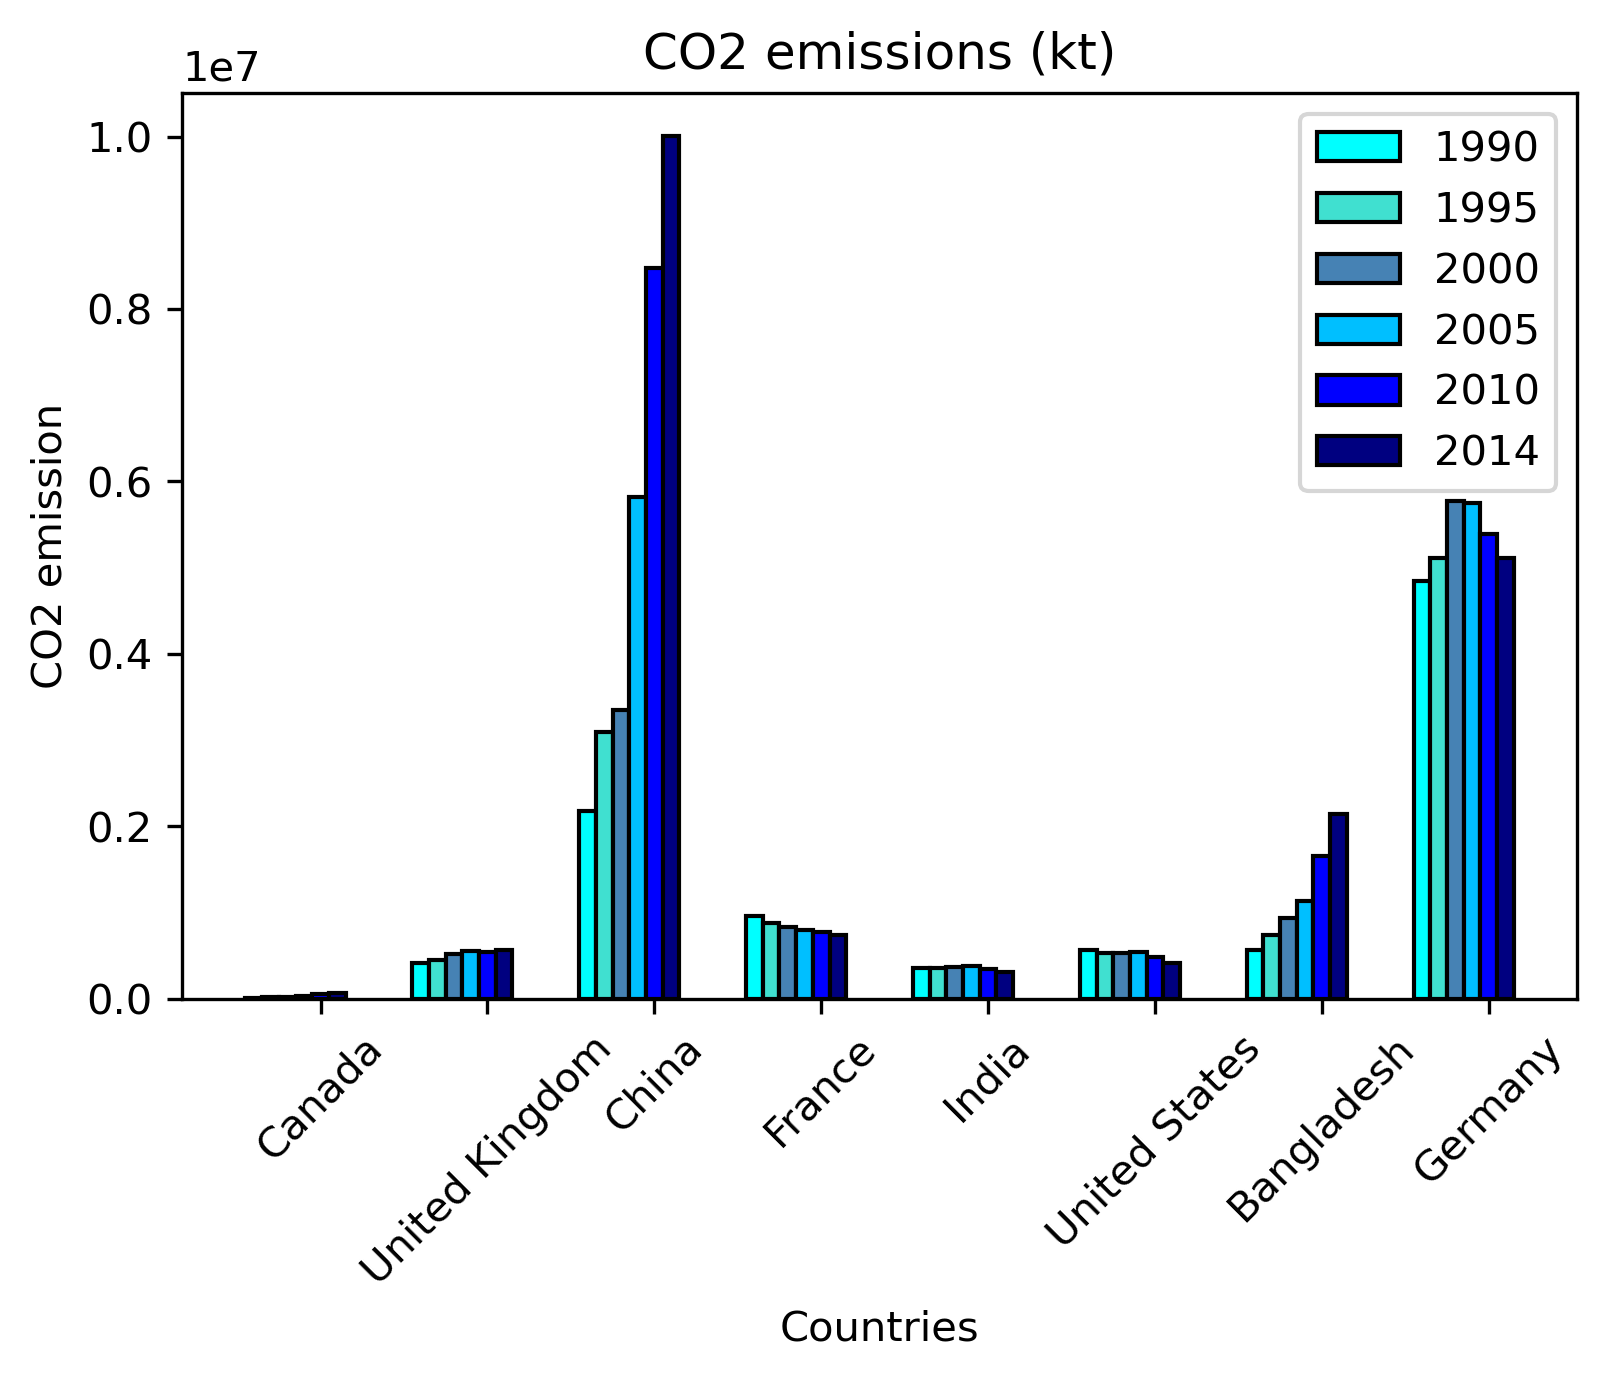
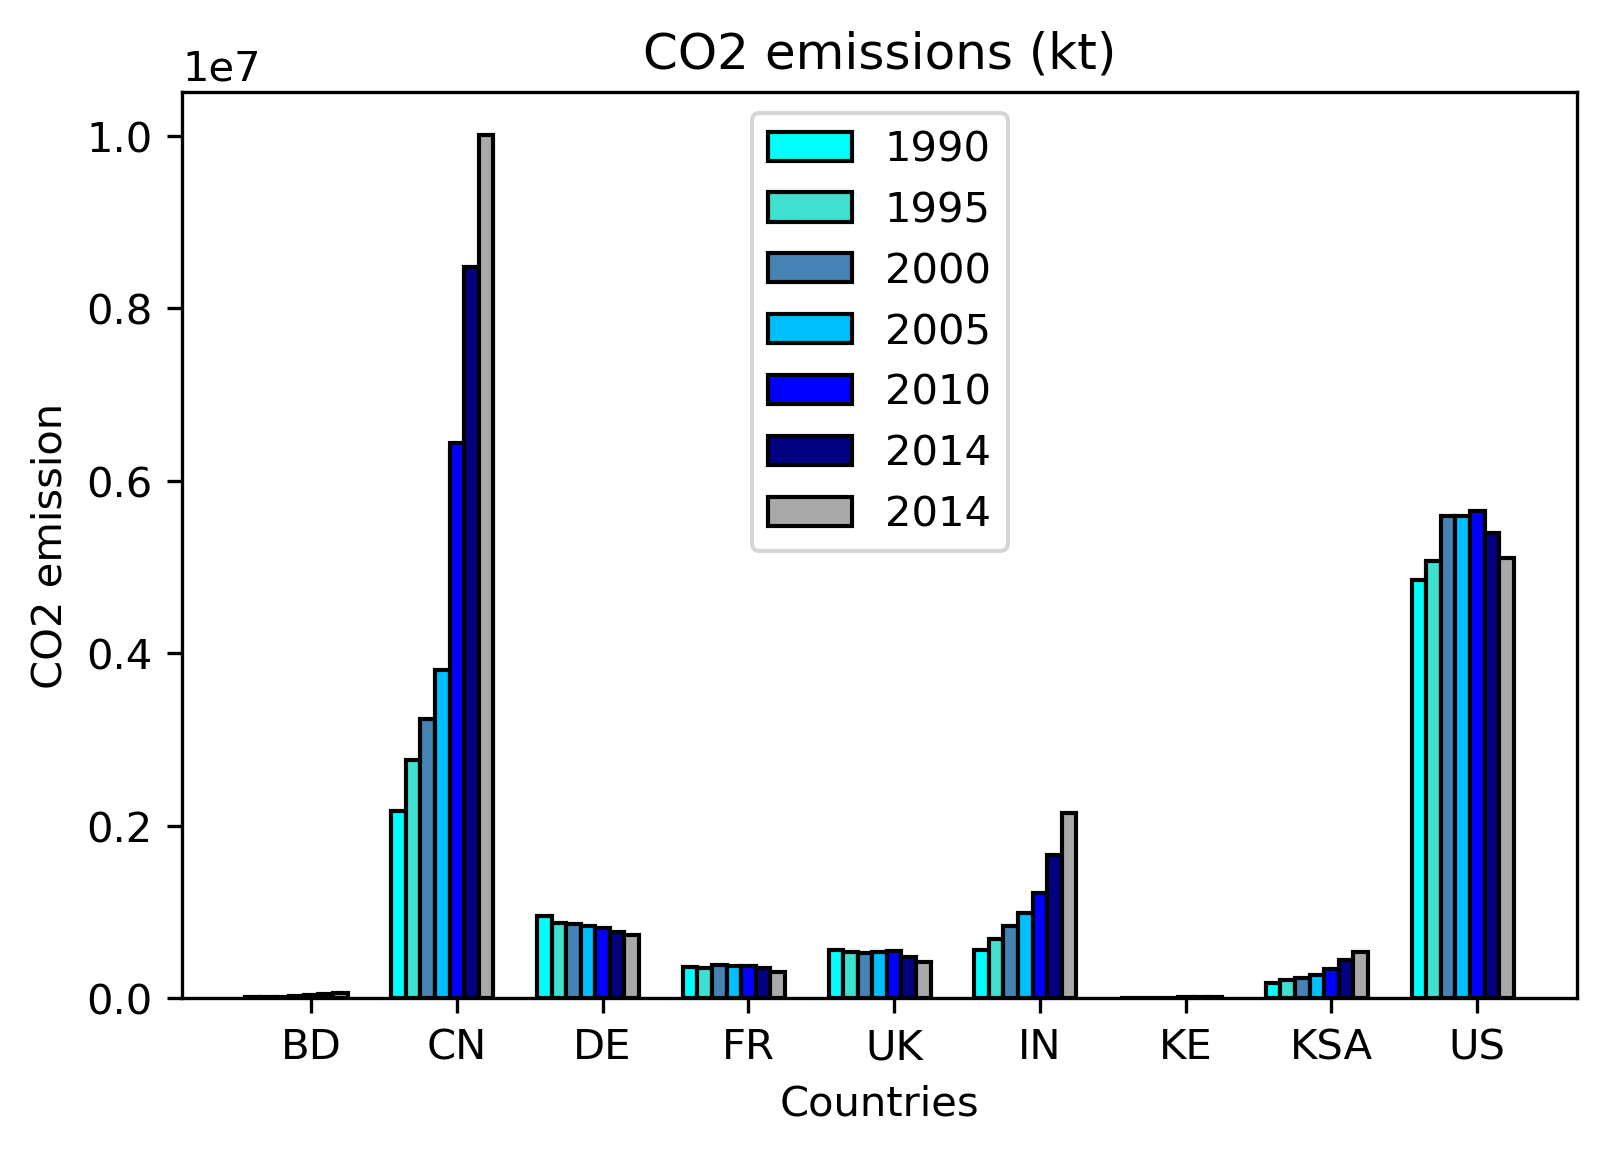
Now graphs being saved as images. Some other minor changes

diff --git a/code.py b/code.py
@@ -81,9 +81,11 @@ def country_df(country_name):
 
     """
 
-
+    #creates dataframe name
     df_name = "df_" + country_name
+    #creates dataframe
     df_name = pd.concat([df_energy_countries[country_name].astype(float), df_pop_countries[country_name].astype(float), df_gdp_countries[country_name].astype(float), df_renew_countries[country_name].astype(float), df_co2_countries[country_name].astype(float)], axis =1)
+    #Gives column names
     df_name.columns.values[0] = "Electricity"
     df_name.columns.values[1] = "Population"
     df_name.columns.values[2] = "GDP"
@@ -93,18 +95,30 @@ def country_df(country_name):
     return (df_name)
 
 
-def heatmap():
+def heatmap(country_name):
+    """
+    Creates a correlation heatmap for the country given as argument.
 
-    df_china = country_df("China")
-    df_uk = country_df("United Kingdom")
-    df_france = country_df("France")
-    
-    
-    dataplot = sb.heatmap(df_china.corr(), cmap="YlGnBu", annot=True)
-    plt.show()
-    dataplot = sb.heatmap(df_uk.corr(), cmap="YlGnBu", annot=True)
-    plt.show()
-    dataplot = sb.heatmap(df_france.corr(), cmap="YlGnBu", annot=True)
+    Parameters
+    ----------
+    country_name : string
+        Name of the country to create the heatmap for.
+
+    Returns
+    -------
+    None.
+
+    """
+
+    #creates dataframe name
+    df_name = "df_" + country_name
+    #cals function to create dataframe
+    df_name = country_df(country_name)
+    #plots heatmap
+    dataplot = sb.heatmap(df_name.corr(), cmap="YlGnBu", annot=True)
+    #saves figure
+    filename = country_name + "_heatmap.png"
+    plt.savefig(filename, dpi = 300, bbox_inches='tight')
     plt.show()
 
 
@@ -148,12 +162,11 @@ plt.bar(r+0.1, df_energy_subset_time[2006], color = 'steelblue',width = width, e
 plt.bar(r+0.2, df_energy_subset_time[2010], color = 'greenyellow',width = width, edgecolor = 'black',label='2010')
 plt.bar(r+0.3, df_energy_subset_time[2014], color = 'khaki',width = width, edgecolor = 'black',label='2014')
 plt.xlabel("Countries")
-plt.ylabel("Energy use")
+plt.ylabel("Electricity use")
 plt.xticks(width+r, countries_label)
 plt.legend()
-plt.title("Energy use (kg of oil equivalent per capita)")
-plt.savefig("line1.png", dpi=300, bbox_inches='tight')
-#plt.savefig("Energy_use.png", dpi=300, bbox_inches='tight')
+plt.title("Electric power consumption (kWh per capita)")
+plt.savefig("Electric_power.png", dpi=300, bbox_inches='tight')
 plt.show()
 
 
@@ -184,7 +197,7 @@ plt.ylabel("CO2 emission")
 plt.xticks(width+r, countries_label)
 plt.legend()
 plt.title("CO2 emissions (kt)")
-#plt.savefig("Co2.png", dpi=300, bbox_inches='tight')
+plt.savefig("Co2.png", dpi=300, bbox_inches='tight')
 plt.show()
 
 
@@ -216,7 +229,7 @@ plt.ylabel("Energy(Renewable)")
 plt.xticks(width+r, countries_label)
 plt.legend()
 plt.title("Renewable energy consumption (% of total final energy consumption)")
-#plt.savefig("Renewable.png", dpi=300, bbox_inches='tight')
+plt.savefig("Renewable.png", dpi=300, bbox_inches='tight')
 plt.show()
 
 
@@ -257,7 +270,7 @@ plt.xlabel("Year")
 plt.ylabel("GDP")
 plt.legend(['BD', 'CN', 'DE',  'FR', 'UK', 'IN', 'KE', 'KSA', 'US', 'IL'], prop = {'size': 8})
 plt.title("GDP per capita, PPP (current international $)")
-#plt.savefig("GDP Per Capita.png", dpi = 300, bbox_inches='tight')
+plt.savefig("GDP_Per_Capita.png", dpi = 300, bbox_inches='tight')
 plt.show()
 
 
@@ -296,24 +309,17 @@ plt.xlabel("Year")
 plt.ylabel("Population")
 plt.legend(['BD', 'CN', 'DE',  'FR', 'UK', 'IN', 'KE', 'KSA', 'US', 'IL'], prop = {'size': 8})
 plt.title("Population, total")
-#plt.savefig("GDP Per Capita.png", dpi = 300, bbox_inches='tight')
+plt.savefig("Population.png", dpi = 300, bbox_inches='tight')
 plt.show()
-
 
 
 """
-Creating heatmap of China and United Kingdom
+Calls the functions to create the heatmaps
 """
 
-df_china = country_df("China")
-df_uk = country_df("United Kingdom")
-df_france = country_df("France")
+heatmap("China")
+heatmap("United Kingdom")
+heatmap("France")
 
 
-dataplot = sb.heatmap(df_china.corr(), cmap="YlGnBu", annot=True)
-plt.savefig("China_heatmap.png", dpi = 300, bbox_inches='tight')
-plt.show()
-dataplot = sb.heatmap(df_uk.corr(), cmap="YlGnBu", annot=True)
-plt.show()
-dataplot = sb.heatmap(df_france.corr(), cmap="YlGnBu", annot=True)
-plt.show()
+
